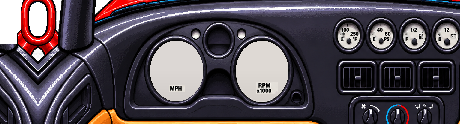
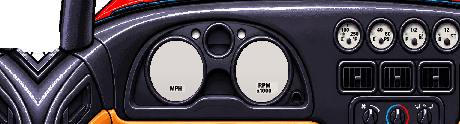
Pausa responde ao primeiro toque, botões de voltar no ranking e nas conquistas, retrovisor com perspectiva certa de perto, luz noturna do Viper mais suave e retrovisor esquerdo do Viper fora de vista
Claude-Session: https://claude.ai/code/session_01MLD9VR7gkmY4w6a9beZcp6

Changed region(s): [[0.0, 0.0, 0.1522, 0.4355]]

diff --git a/src/screens.ts b/src/screens.ts
@@ -1350,6 +1350,9 @@ function drawEnd(c: CanvasRenderingContext2D, s: AppState) {
 
 // ---------- conquistas e medalhas ----------
 const achButton = (): Rect => ({ x: ox() + 210, y: 212, w: 106, h: 15 });
+// voltar visível (no iPhone e no PC nem sempre há um botão de voltar do aparelho)
+const scoresBack = (): Rect => ({ x: ox() + 4, y: 198, w: 74, h: 12 });
+const achBack = (): Rect => ({ x: ox() + SAFE_W - 160, y: 18, w: 70, h: 12 });
 // fantasma por código: enviar o seu (copia o código) e colar o de um amigo
 const ghostButtons = () => ({ send: { x: ox() + 4, y: 212, w: 100, h: 15 }, recv: { x: ox() + 107, y: 212, w: 100, h: 15 } });
 async function sendGhost(s: AppState) {
@@ -1414,6 +1417,7 @@ function drawAchievements(c: CanvasRenderingContext2D, s: AppState) {
     ink(c, ach.name, ax + 11, ay + 1, 5, ok ? INK : GREY);
     ink(c, ach.desc, ax + 96, ay + 1, 5, ok ? BLUE : 'rgba(26,22,20,0.4)');
   });
+  tag(c, achBack(), '◀ RANKING', false, 5);
   const st = loadStats();
   ink(c, `${st.stages} trechos • ${st.passes} ultrapassagens • ${st.tunnels} túneis`, x + 160, 226, 5, GREY, 'center');
 }
@@ -1441,7 +1445,7 @@ function drawScores(c: CanvasRenderingContext2D, s: AppState) {
     ink(c, e.won ? 'VENCEU O DUELO' : 'PERDEU O DUELO', t.x + t.w - 8, y + 13, 5, e.won ? '#1a6a2a' : RED, 'right');
     if (i < list.length - 1) rule(c, t.x + 6, y + 23, t.w - 12, 'rgba(26,22,20,0.15)');
   });
-  ink(c, 'Toque fora para voltar à capa', x + 4, 201, 5, GREY);
+  tag(c, scoresBack(), '◀ CAPA', false, 5);
   const gb = ghostButtons();
   tag(c, gb.send, 'ENVIAR FANTASMA', false);
   tag(c, gb.recv, fr ? 'APAGAR AMIGO' : 'DESAFIO DE AMIGO', false);
@@ -1648,6 +1652,7 @@ export function tapScreen(s: AppState, a: Actions, x: number, y: number) {
     case 'scores':
       if (y < 60 && x < view.w / 2) s.scoreCourse = (s.scoreCourse + COURSES.length - 1) % COURSES.length;
       else if (y < 60) s.scoreCourse = (s.scoreCourse + 1) % COURSES.length;
+      else if (inside(x, y, scoresBack())) a.go('title');
       else if (inside(x, y, achButton())) a.go('achievements');
       else if (inside(x, y, ghostButtons().send)) void sendGhost(s);
       else if (inside(x, y, ghostButtons().recv)) void receiveGhost(s);

diff --git a/src/cockpit.ts b/src/cockpit.ts
@@ -32,6 +32,7 @@ interface CockpitArt {
   wheel: string;
   dashMask?: string; // partes na cor do carro (capô, porta, colunas), para a repintura
   topMask?: string;
+  glowK?: number; // força do brilho noturno do quadro (1 = padrão)
   radar?: [number, number]; // canto do detector de radar no painel (padrão 206, 22)
   // retrovisor desenhado à parte (quando a arte o corta na borda): sprite e posição do canto,
   // x nas coordenadas do painel (pode ser negativo: fica na área esticada de tela larga), y a
@@ -847,7 +848,9 @@ const VP_INK = '#16161a', VP_BG = '#ecebe2';
 COCKPIT_ART.viper = {
   dash: cp('viper-dash'), top: cp('viper-top'), wheel: cp('viper-wheel'),
   pivot: [128, 105], wheelTop: 14, speedMax: 322, needle: '#e3241c', needleW: 2.2, needleTail: 4, needleFine: true, hub: '#151517', hubR: 3.4, radar: [102, 22],
-  glass: { at: [42, 95], thr: 256 }, tells: null,
+  glass: { at: [60, 160], thr: 256 }, tells: null, // sem retrovisor externo à vista (a arte o corta): ponto no painel, não acha vidro
+  // à noite: lâmpadas âmbar fracas por trás dos fundos brancos (sem lavar o branco de bege)
+  glow: '255,150,60', glowK: 0.45,
   // fundos dos mostradores grandes: a própria arte, em alta resolução, com os números refeitos
   // (tools/ref/viper_gauges.py): velocímetro 20-200 mph e conta-giros 0-8 com a faixa amarela e vermelha
   faces: [
@@ -982,8 +985,9 @@ function instrumentGlow(c: CanvasRenderingContext2D, ox: number, art: CockpitArt
   const glow = (x: number, y: number, r: number) => {
     const g = c.createRadialGradient(x, y, 0, x, y, r);
     const rgb = art.glow ?? '255,180,110'; // cor da luz do quadro (âmbar; a LP5 acende em verde)
-    g.addColorStop(0, `rgba(${rgb},${(0.16 * k).toFixed(3)})`);
-    g.addColorStop(0.7, `rgba(${rgb},${(0.08 * k).toFixed(3)})`);
+    const gk = k * (art.glowK ?? 1);
+    g.addColorStop(0, `rgba(${rgb},${(0.16 * gk).toFixed(3)})`);
+    g.addColorStop(0.7, `rgba(${rgb},${(0.08 * gk).toFixed(3)})`);
     g.addColorStop(1, `rgba(${rgb},0)`);
     c.fillStyle = g;
     c.fillRect(x - r, y - r, r * 2, r * 2);

diff --git a/src/main.ts b/src/main.ts
@@ -475,6 +475,35 @@ $('qSound').addEventListener('click', () => {
   quickLabels();
 });
 $('resume').addEventListener('click', () => setPaused(false));
+// botões dos painéis da pausa, ajustes e saída: respondem ao soltar o dedo (no iPhone o primeiro
+// toque às vezes só "passa por cima" do botão e o click não vem); o click de verdade que chega
+// logo depois é ignorado, para não acionar duas vezes
+let tapClickAt = 0;
+for (const id of ['pause', 'settings', 'quitDlg']) {
+  const panel = $(id);
+  panel.addEventListener('pointerup', (e) => {
+    if (e.pointerType === 'mouse') return; // no mouse o click já vem certo
+    const b = (e.target as HTMLElement).closest('button');
+    if (!b || !panel.contains(b)) return;
+    tapClickAt = performance.now();
+    const ev = new MouseEvent('click', { bubbles: true, cancelable: true });
+    (ev as MouseEvent & { synth?: boolean }).synth = true;
+    b.dispatchEvent(ev);
+  });
+  panel.addEventListener('click', (e) => {
+    if (!(e as MouseEvent & { synth?: boolean }).synth && performance.now() - tapClickAt < 800) {
+      e.stopPropagation();
+      e.preventDefault();
+    }
+  }, true);
+}
+document.addEventListener('click', (e) => {
+  // o click atrasado do toque que fechou a pausa cai no que estiver embaixo: ignora
+  if (!(e as MouseEvent & { synth?: boolean }).synth && performance.now() - tapClickAt < 800) {
+    e.stopPropagation();
+    e.preventDefault();
+  }
+}, true);
 $('quit').addEventListener('click', () => {
   // o que foi feito no trecho interrompido (ultrapassagens, túneis) entra nas estatísticas
   if (race) partialStats(race);

diff --git a/src/render3d.ts b/src/render3d.ts
@@ -658,7 +658,9 @@ export function renderMirror(c: CanvasRenderingContext2D, r: Race, x: number, y:
     const dz = r.position - b.z;
     if (dz < 300 || dz > 200 * SEG_LEN) continue;
     const k = D / dz;
-    const yy = hz + (bottom - hz) * Math.min(1, k);
+    // perspectiva de verdade: perto, a base do carro passa por baixo do espelho (que fica na altura
+    // dos olhos) e o que aparece é capô, para-brisa e teto, não o para-choque
+    const yy = hz + (bottom - hz) * k;
     const bw = b.w * sb * k;
     if (bw < 2) { // bem longe: um pontinho (os faróis, à noite)
       c.fillStyle = night && b.look.front ? '#fff6c0' : b.look.color;

diff --git a/tools/ref/viper_cockpit.py b/tools/ref/viper_cockpit.py
@@ -66,6 +66,17 @@ def main():
     glass[y0:y1, x0:x1] = blue[y0:y1, x0:x1]
     glass = cv2.morphologyEx(glass.astype(np.uint8), cv2.MORPH_CLOSE, np.ones((7, 7), np.uint8)).astype(bool)
     sky |= glass
+    # retrovisor externo esquerdo: a arte o corta na borda esquerda; ele sai de vista inteiro
+    # (carcaça vermelha, espelho e haste), no lugar fica o mundo
+    mx0, my0, mx1, my1 = MIRROR
+    housing = np.zeros_like(sky)
+    hr = (rgb[..., 0] > 90) & (rgb[..., 0] > rgb[..., 1] * 1.5) & (rgb[..., 0] > rgb[..., 2] * 1.5)
+    housing[my0:my1 + 25, mx0:mx1 + 20] = hr[my0:my1 + 25, mx0:mx1 + 20] | glass[my0:my1 + 25, mx0:mx1 + 20]
+    housing = cv2.morphologyEx(housing.astype(np.uint8), cv2.MORPH_CLOSE, np.ones((9, 9), np.uint8)).astype(bool)
+    housing = cv2.dilate(housing.astype(np.uint8), np.ones((11, 11), np.uint8)).astype(bool) & (yy < 341)
+    sky |= housing
+    sky[150:328, 0:71] = True  # restos do contorno do espelho, à esquerda da coluna
+    sky[328:347, 0:75] |= hr[328:347, 0:75]  # pé vermelho do retrovisor em cima da porta
     # mostradores: o jogo desenha marcações, números e ponteiros; da arte ficam o fundo creme,
     # o aro e os textos "MPH" e "RPM x1000". Os números da arte (com repetições) e os ponteiros
     # pintados saem: o miolo de cada mostrador grande é refeito a partir das bordas
@@ -100,23 +111,13 @@ def main():
     xr = np.where(xs < 0, -xs, np.clip(xs, 0, W - 1))  # reflete a porta para a esquerda
     d_rgb = sample(dash, xr, ys)
     d_al = ~sample(sky, xr, ys)
-    # à esquerda da arte só a porta (de baixo) e o retrovisor externo, que a arte corta na borda:
-    # o reflexo completa a carcaça e o espelho (o espelho fica vidro, o jogo mostra a vista nele)
-    mir = np.zeros((H, W), bool)
-    mx0, my0, mx1, my1 = MIRROR
-    housing = (rgb[..., 0] > 90) & (rgb[..., 0] > rgb[..., 1] * 1.5) & (rgb[..., 0] > rgb[..., 2] * 1.5)
-    mir[my0:my1, mx0:mx1] = (housing | glass)[my0:my1, mx0:mx1]
-    mir = cv2.morphologyEx(mir.astype(np.uint8), cv2.MORPH_CLOSE, np.ones((9, 9), np.uint8)).astype(bool)
-    mir = cv2.dilate(mir.astype(np.uint8), np.ones((5, 5), np.uint8)).astype(bool)
-    mir_s = sample(mir, xr, ys)
-    left = xs < 0
-    d_al[:, left] = ((ys[:, None] > 316) | mir_s)[:, left] & ~sample(glass, xr, ys)[:, left]
+    d_al[:, xs < 0] &= (ys[:, None] > 330).repeat((xs < 0).sum(), 1)
     Image.fromarray(np.dstack([d_rgb, d_al.astype(np.uint8) * 255]), 'RGBA').save(os.path.join(out, 'viper-dash.png'))
     xs, ys = grid(y0d - EXT * PXH, EXT)
     xr = np.where(xs < 0, -xs, np.clip(xs, 0, W - 1))
     t_rgb = sample(dash, xr, ys)
     t_al = ~sample(sky, xr, ys)
-    t_al[:, xs < 0] = (sample(mir, xr, ys) & ~sample(glass, xr, ys))[:, xs < 0]
+    t_al[:, xs < 0] = False
     Image.fromarray(np.dstack([t_rgb, t_al.astype(np.uint8) * 255]), 'RGBA').save(os.path.join(out, 'viper-top.png'))
 
     # volante
